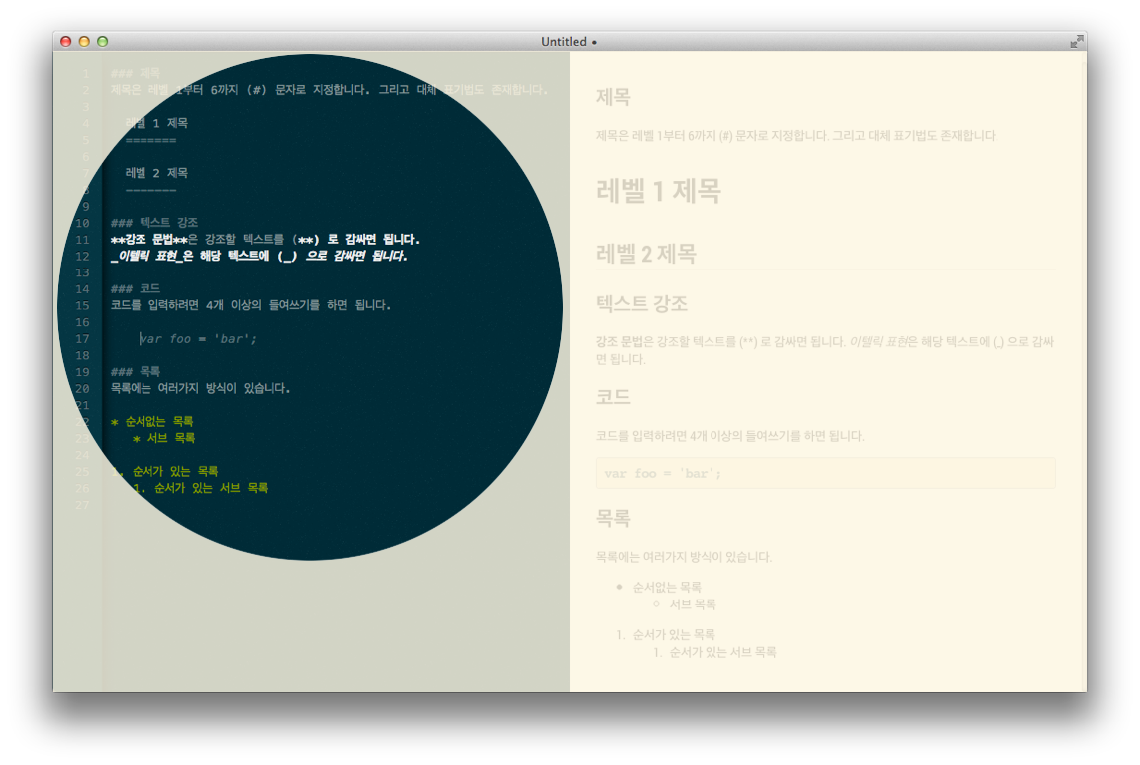
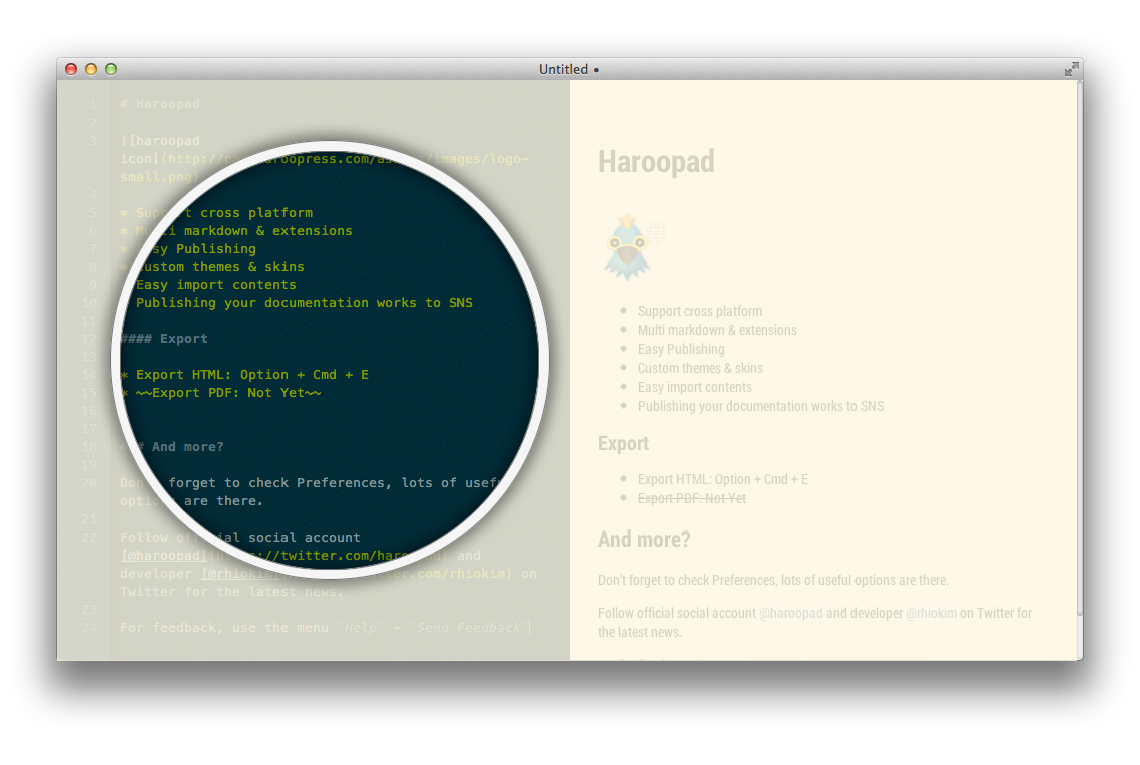
update menual 2

diff --git a/page.html b/page.html
@@ -81,10 +81,14 @@
               <li class="nav-header">Usage</li>
               <li><a href="#editing-markdown">Editing markdown</a></li>
               <li><a href="#load-and-save">Load & Save</a></li>
+              <li><a href="#open-recent-files">Open recent files</a></li>
               <li><a href="#show-shortcuts">Show shortcuts</a></li>
-              <li><a href="#publishing-sharing">Publishing & Sharing</a></li>
-              <li><a href="#importing-external-contents">Importing local/external contents</a></li>
-              <li><a href="#change-theme-and-style">Change theme & style</a></li>
+              <li><a href="#exports">Exports</a></li>
+              <li><a href="#preferences">Preferences</a></li>
+              <li><a href="#configuration-editor">Configuration editor</a></li>
+              <li><a href="#configuration-viewer">Configuration viewer</a></li>
+              <!--li><a href="#publishing-sharing">Publishing & Sharing</a></li>
+              <li><a href="#importing-external-contents">Importing local/external contents</a></li-->
               <!--li class="divider"></li>
               <li class="nav-header">Hacking</li>
               <li><a href="#">Customizing my theme</a></li>

diff --git a/docs/preferences/index.md b/docs/preferences/index.md
@@ -1,0 +1,46 @@
+## Preferences
+
+환경설정 옵션에서는 하루패드의 몇 가지 설정값을 통해 좀더 나은 마크다운 편집 경험을 제공한다.
+
+#### About
+
+하루패드에 대한 간략한 소개와 공식 사이트, 제작자 정보를 제공한다.  
+
+![](images/about.png)
+
+#### General
+
+일반(General)탭에는 하루패드의 기본적인 설정 옵션을 설정할 수 있다.
+
+**Enable Sync Scroll** 를 체크 상태로 두면 에디터 영역과 뷰 영역의 스크롤 위치 동기화가 되며 긴 문서를 편집 시 에디터 스크롤 위치에 비례하여 뷰 영역의 스크롤이 알맞게 이동한다.
+
+![](images/general.png)
+
+#### Editor
+
+에디터 탭에는 [테마](#configuration-editor)와 4가지 옵션을 제공한다.  테마 설정에 대한 내용은 별도의 페이지에서 설명한다.
+
+* Display line number
+* Vim key binding
+* Insert 4 spaces insted of on tab (default 2)
+* Auto pair characters ( [], (), "" )
+
+**Display line number** 를 체크 상태로 두면 에디터의 줄 번호가 표시된다.
+
+**Vim key binding** 를 체크 상태로 두면 VI 에디팅을 즐겨 쓰는 사람(흔히 개발자)들에게 익숙한 키 인터페이스를 제공하기 위한 옵션이다.
+
+**Insert 4 spaces insted of on tab** 에디터의 탭의 스페이스 사이즈를 지정하는 것이다. 하루패드는 기본적으로 탭 하나는 2개의 공백(space)를 의미한다.
+
+**Auto pair characters** 는 프로그래밍에서 자주 쓰는 기능이나 마크다운 편집시에도 괄호나 큰따옴표등은 대부분 짝으로 필요하기 때문에 하나의 괄호만 치더면 자동으로 짝에 맞춰 글자를 생성해주는 옵션이다.
+
+![](images/editor.png)
+
+#### Viewer
+
+뷰어 탭에는 [테마](), [코드 스타일]() 과 1개의 옵션을 제공한다.  테마 설정에 대한 내용은 별도의 페이지에서 설명한다.
+
+* Make links clickable in viewer
+
+**Make links clickable in viewer** 옵션은 문서에 링크가 포함된 경우 뷰 영역에서 실제로 링크를 클릭 동작 여부를 설정하게 된다. 체크한 상태라면 클릭 시 시스템 기본 브라우저에 링크가 열린다.
+
+![](images/viewer.png)

diff --git a/docs/show-shortcuts/index.md b/docs/show-shortcuts/index.md
@@ -1,0 +1,42 @@
+## Shortcuts
+
+하루패드의 단축키 기능은 굉장히 투박하다. 
+
+일반적으로 단축키는 드랍다운 메뉴에 함께 표시되는게 일반적이나 웹 기술을 기반으로 하는 하루패드는 아직 이 부분에 있어서는 완벽하지 않다.
+
+단축키 맵의 경우도 단축키로만 접근할 수 있다.
+(![](/assets/images/mac_shortcuts/ks_command.gif) - ![](/assets/images/mac_shortcuts/ks_control.gif) - k)
+
+![](images/shortcuts-0.png)
+
+단축키를 이용할 때 유의해야할 점은 각 운영체제마다 특수키(Window, Command) 를 이용하는 경우는 Ctrl 키로 대체된다.
+
+### 키 맵 (for haroopad)
+
+Shortcut    | Description
+------------|-------------
+Command - N | Create new window
+Command - S | Save file
+Command - O | Open file
+Command - , | Preferences
+Ctrl - ]    | Only Editor mode
+Ctrl + [    | Dual Mode
+Ctrl +Alt + ] |Editor with + 5%
+Ctrl +Alt + [ |Editor with - 5%
+Ctrl + \    | Reset Dual Mode
+  
+### 키 맵 (for markdown editing)
+
+Shortcut    | Description
+------------|-------------
+Command - B | Bold
+Command - L | Link
+Command - I | Italic
+Command - Shift - O | Ordered list
+Command - Shift - U | Unordered list
+Command - Shift - I | Image
+Command - Shift - B | Block quote
+
+---
+
+향후 단축키는 일반적인 윈도우 시스템에서 제공하는 단축키 기능을 제공할 예정이다.

diff --git a/docs/load-and-save/index.md b/docs/load-and-save/index.md
@@ -1,0 +1,32 @@
+## Load and Save
+
+여타 많은 애플리케이션처럼 하루패드도 PC에 저장된 마크다운 파일을 불러와 편집할 수 있다.
+
+#### Load
+
+
+File > Open (![](/assets/images/mac_shortcuts/ks_command.gif) - o)
+메뉴를 통해 파일을 불러올 수 있다. 
+
+![](images/open-0.png)
+
+![](images/open.png)
+
+
+#### Save
+
+File > Save (![](/assets/images/mac_shortcuts/ks_command.gif) - s)
+메뉴를 통해 파일을 저장할 수 있다. 
+
+![](images/save-0.png)
+
+![](images/save-1.png)
+
+만약 사용자가 문서의 변경 상태를 모른 상태에서 하루패드를 종료하거나 닫으려할 때 저장할 수 있도록 다음과 같은 다이얼로그 박스가 표시된다.
+
+*"Do you want to save the changes made to the document?"*
+
+![](images/save-2.png)
+
+---
+물론 윈도우, 리눅스에서도 동일한 메뉴를 통해 파일을 불러올 수 있다. 다만 단축키가 (![](/assets/images/mac_shortcuts/ks_command.gif)) 대신에 (![ctrl](/assets/images/mac_shortcuts/ks_control.gif)) 키이다.

diff --git a/docs/editing-markdown/index.md b/docs/editing-markdown/index.md
@@ -1,0 +1,17 @@
+## Editing Markdown
+
+하루패드는 **두 영역**으로 나뉜다. 
+
+![](images/haroopad.png)
+
+발전된 문서 편집도구는 별도의 영역이 존재하지 않는 위지윅 형태의 성숙한 인터페이스를 제공하지만 마크다운은 경량의 웹 친화적인 포맷이고 일반 사용자들에게 널리 퍼지지 않아 아직까진 대부분 별도의 분리된 형태를 제공한다.
+
+**에디터 영역**
+![Edit Area](images/edit_area.png "Edit Area")
+
+좌측에 보이는 영역이 마크다운을 작성하는 영역이고
+
+**뷰 영역**
+![View Area](images/view_area.png "View Area")
+
+우측 영역이 실제로 표현될 문서 형태이다.

diff --git a/docs/exports/index.md b/docs/exports/index.md
@@ -1,0 +1,13 @@
+## Exports
+
+하루패드로 작성한 마크다운 문서는 그것 자체보다 HTML 로 변환되어 웹으로 퍼블리싱 될때 비로소 문서의 역할을 한다.
+
+마크다운 자체로써는 일반 문서에 비해 가독성이 낮기 때문에 HTML, PDF, DOC 과 같은 일반적으로 사용하는 문서 포맷으로 출력하는 것은 꾀 중요하다.
+
+하루패드에서는 이런점을 감안하여 HTML, PDF 와 같은 문서 포맷도 지원한다.  
+
+![](images/exports-0.png)
+
+---
+
+PDF 출력은 향후 제공할 예정이다. (v0.2.x)

diff --git a/docs/open-recent-files/index.md b/docs/open-recent-files/index.md
@@ -1,0 +1,7 @@
+## Open recent files
+
+하루패드는 최근 작업한 문서순으로 File > Open Recent 메뉴에서 확인할 수 있다.
+
+![](images/recents-0.png)
+
+최근 작업한 파일 목록은 최대 10개까지 기록된다.
